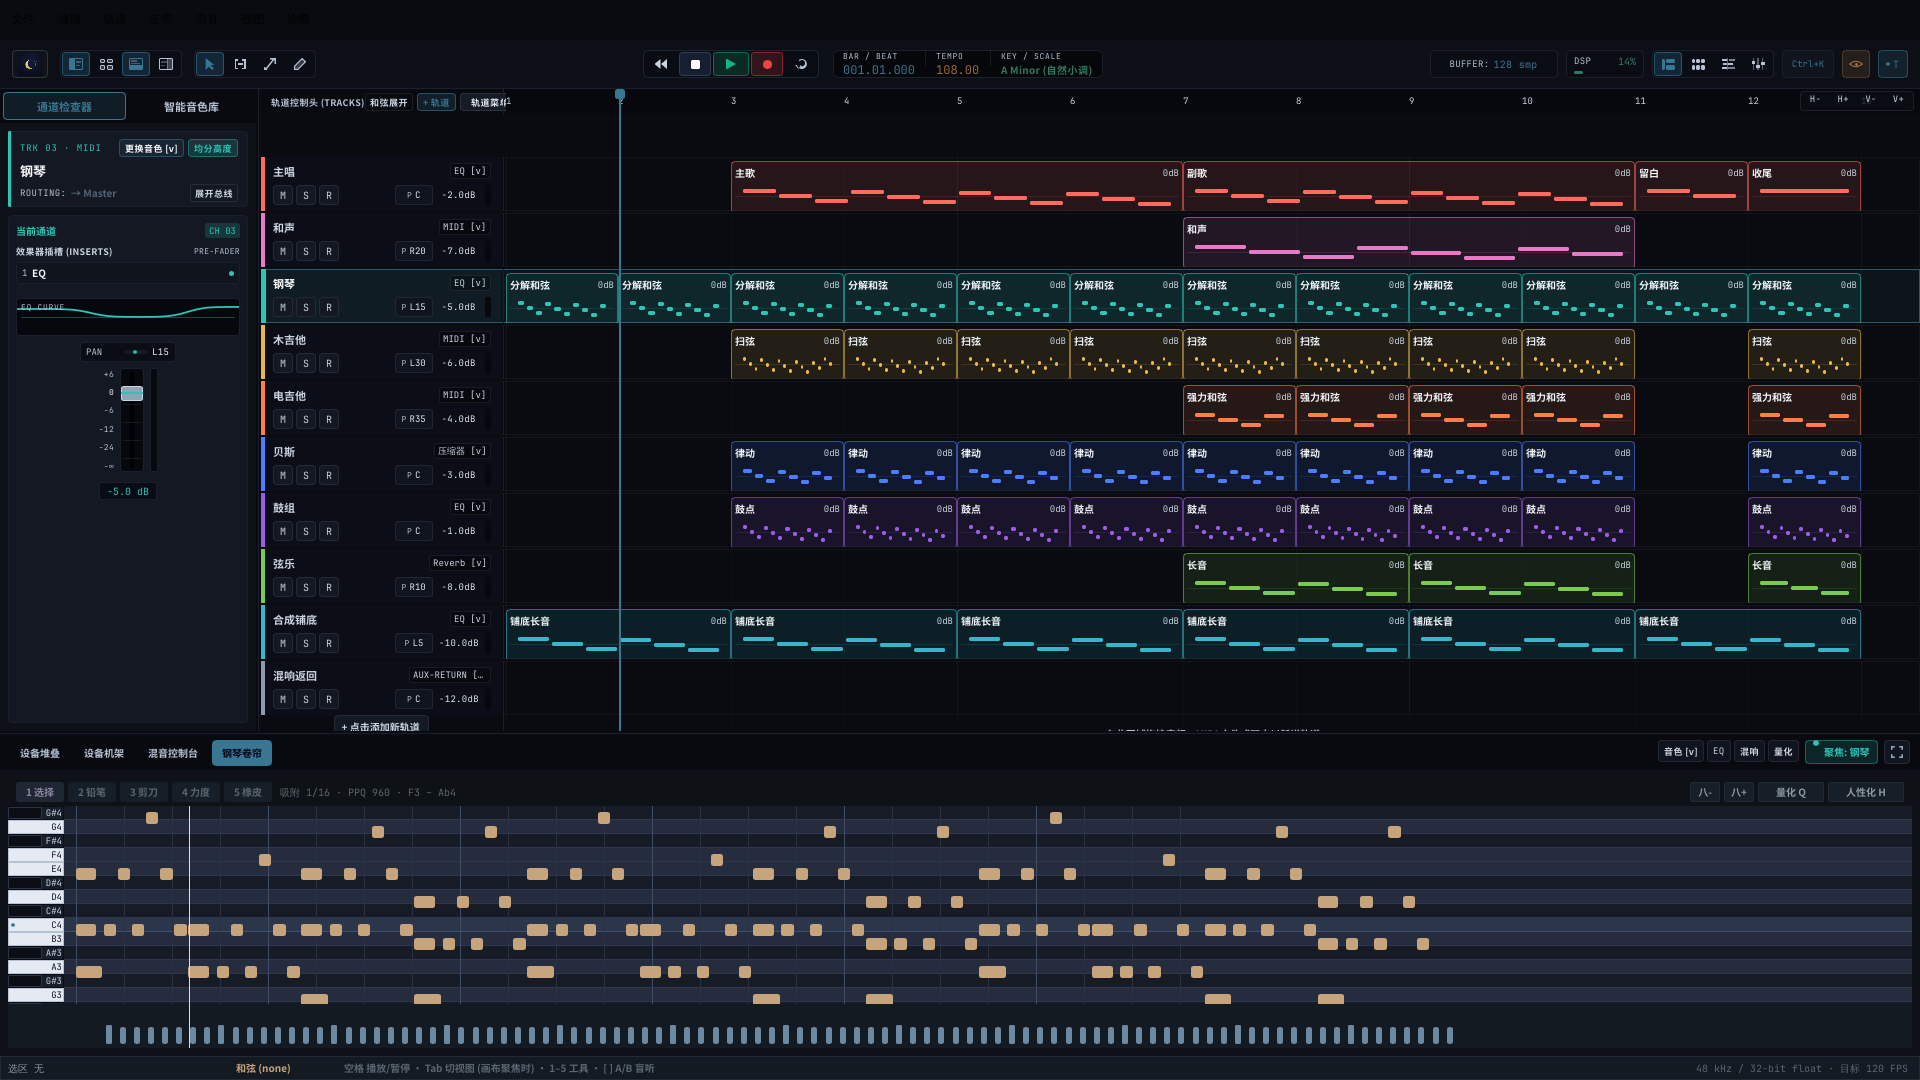
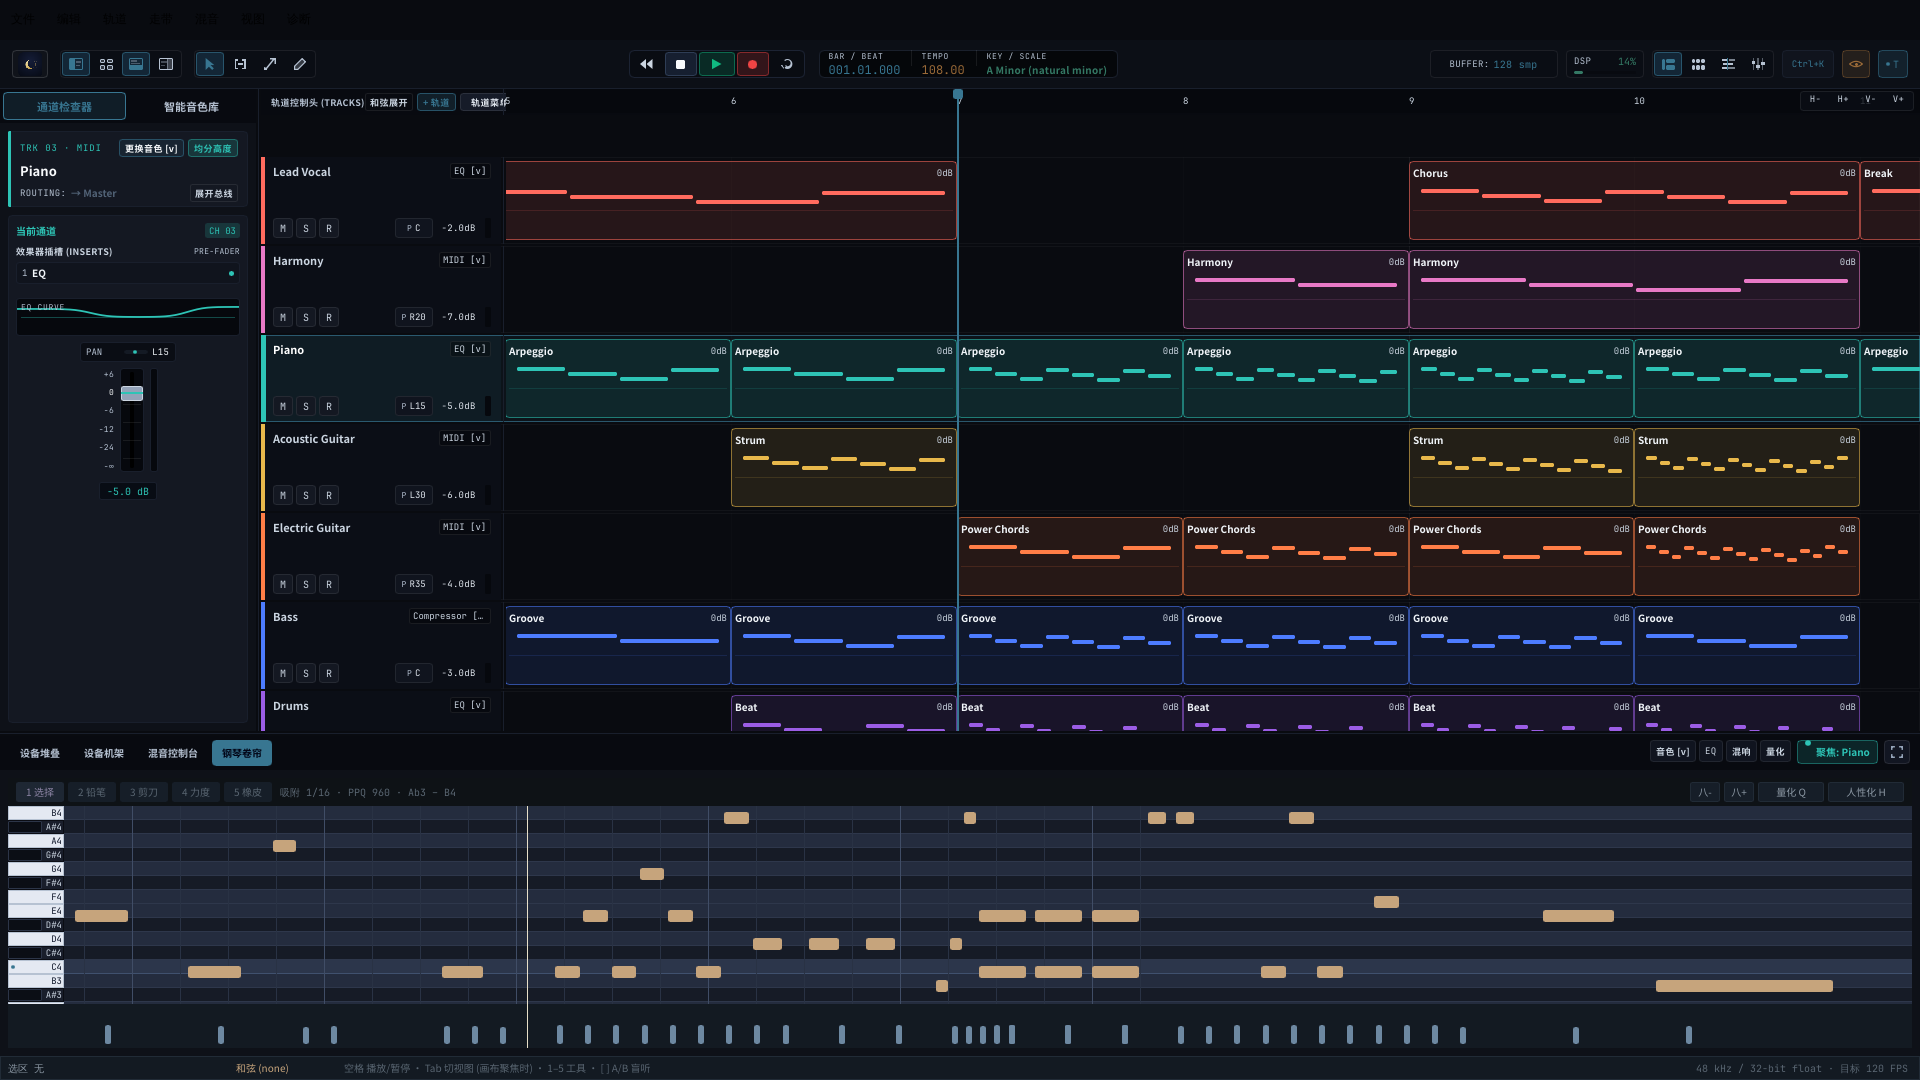
docs(readme): 界面截图换第五轮——编曲疏密重做（297 音符）、放大构图、轨道与片段名英文

diff --git a/README.md b/README.md
@@ -44,7 +44,7 @@
 
 The current interface, running a 10-track pop project (lead vocal, harmonies, piano, guitars, bass, drums, strings, synth pad):
 
-![Full-song arrangement view: the complete 12-bar structure, with the piano roll showing the piano track's arpeggios](assets/screenshots/ui-full-song.png)
+![Arrangement view (zoomed): verse into chorus with clear density contrast, the piano roll showing the piano track arpeggios](assets/screenshots/ui-full-song.png)
 
 ![Arrangement view: the chorus section, with the piano roll and the channel inspector showing a real EQ curve](assets/screenshots/ui-arrangement-chorus.png)
 
